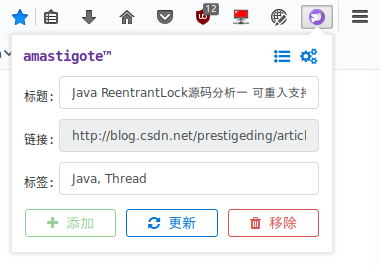
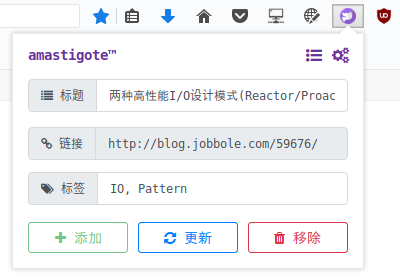
1. bump version to 0.3.5 2. new UI for panel, page and preference 3. fix modal shifting issue 4. improve robustness of ext-core when called in different cases 5. update assets 6. add exception prompt for page

diff --git a/html/page.html b/html/page.html
@@ -17,24 +17,32 @@
         }
 
         .ui-autocomplete {
-            max-height: 100px;
+            max-height: 150px;
             overflow-y: auto;
             /* prevent horizontal scrollbar */
             overflow-x: hidden;
         }
+        .modal-open {
+            padding-right: 0 !important;
+        }
+        html {
+            overflow-y: scroll !important;
+        }
+
     </style>
 </head>
-<body style="width: 100%; margin: auto; min-height: 100%; padding-bottom: 20px">
+<body style="margin: auto; min-height: 100%; padding-bottom: 20px">
 <nav class="navbar navbar-expand-lg navbar-dark fixed-top" style="background-color: rebeccapurple">
     <span class="navbar-brand text-light" style="font-family: sans-serif; -moz-user-select: none">文章列表 - amastigote™ open version<a
-            class="fa fa-github text-light" style="margin-left: 15px" href="https://github.com/amastigote/amastigote-browser-ext"></a></span>
+            class="fa fa-github text-light" style="margin-left: 15px"
+            href="https://github.com/amastigote/amastigote-browser-ext"></a></span>
     <div class="collapse navbar-collapse" id="navbarSupportedContent">
         <ul class="navbar-nav mr-auto"></ul>
         <form class="form-inline">
             <div class="input-group" style="width: 540px">
                 <span style="background-color: #4e2674; -moz-user-select: none" class="input-group-addon text-light"><i
                         class="fa fa-tags"></i>&nbsp;标签过滤器</span>
-                <input style="background-color: rgb(158,122,201)" type="text" id="filterByTags"
+                <input style="background-color: rgb(158,122,201)" id="filterByTags"
                        class="form-control text-light" title="输入一组标签来过滤显示结果">
                 <button id="btnFilter" style="margin-left: 15px" type="button"
                         class="btn btn-outline-light"><i class="fa fa-check"></i>&nbsp;&nbsp;应用
@@ -80,23 +88,21 @@
                     </button>
                 </div>
                 <div class="modal-body">
-                    <form>
-                        <div class="form-group" id="standard">
-                            <label for="modalInputTitle" style="font-size: 16px; font-weight: 600"><i
-                                    class="fa fa-bars"></i>&nbsp;&nbsp;标题</label>
-                            <input style="font-size: 14px" id="modalInputTitle" class="form-control"/>
+                    <form class="form-inline">
+                        <div class="input-group" style="width: 100%;">
+                            <span style="-moz-user-select: none; font-size: 14px" class="input-group-addon"><i
+                                    class="fa fa-list"></i>&nbsp;&nbsp;标题</span>
+                            <input style="font-size: 14px" id="modalInputTitle" class="form-control" title="标题"/>
                         </div>
-                        <div class="form-group">
-                            <label for="modalInputUrl" style="font-size: 16px; font-weight: 600"><i
-                                    class="fa fa-link"></i>&nbsp;&nbsp;链接</label>
-                            <input disabled style="font-size: 14px" id="modalInputUrl" class="form-control"/>
+                        <div class="input-group" style="width: 100%; margin-top: 15px">
+                            <span style="-moz-user-select: none; font-size: 14px" class="input-group-addon"><i
+                                    class="fa fa-link"></i>&nbsp;&nbsp;链接</span>
+                            <input disabled style="font-size: 14px" id="modalInputUrl" class="form-control" title="链接"/>
                         </div>
-                        <div class="form-group">
-                            <div style="display: block">
-                                <label for="modalInputTags" style="font-size: 16px; font-weight: 600"><i
-                                        class="fa fa-tags"></i>&nbsp;&nbsp;标签</label></div>
-                            <input style="font-size: 14px; display: table; width: 100%" id="modalInputTags"
-                                   class="form-control" placeholder="No Tags"/>
+                        <div class="input-group" style="width: 100%; margin-top: 15px">
+                            <span style="-moz-user-select: none; font-size: 14px" class="input-group-addon"><i
+                                    class="fa fa-tags"></i>&nbsp;&nbsp;标签</span>
+                            <input style="font-size: 14px" id="modalInputTags" class="form-control" placeholder="无标签"/>
                         </div>
                     </form>
                 </div>

diff --git a/html/popup.html b/html/popup.html
@@ -46,7 +46,7 @@
 </head>
 
 <body>
-<div id="mask" class="mask" style="text-align: center; display: table">
+<div id="mask" class="mask" style="text-align: center; display: table; z-index: 1000">
     <div style="display: table-cell; height: 100%">
         <table style="vertical-align: middle; width: 100%; height: 100%">
             <tr style="text-align: center">
@@ -64,36 +64,32 @@
         </table>
     </div>
 </div>
-<table style="width: 320px">
-    <tr style="height: 30px">
-        <td colspan="2"
-            style="font-size: 14px; position: absolute; top: 9px; left: 10px;color: rebeccapurple; font-weight: bold">
-            amastigote™
-        </td>
-    </tr>
-    <tr class="spacer"></tr>
-    <tr>
-        <td style="font-size: 12px; padding-left: 12px">标题:</td>
-        <td><label><input class="form-control" style="font-size: 12px; width: 260px" id="input_title"/></label></td>
-        <td style="top: 8px; right: 10px; position: absolute">
-            <a href="javascript: void(0);">
-                <i class="fa fa-list-ul" id="img_page"></i></a>
-            <a href="javascript: void(0);">
-                <i class="fa fa-cogs" id="img_settings" style="margin-right: 4px"></i></a>
-        </td>
-    </tr>
-    <tr>
-        <td style="font-size: 12px; padding-left: 12px">链接:</td>
-        <td><label><input class="form-control non-selection-input" style="font-size: 12px; width: 260px" disabled
-                          id="input_url"/></label>
-        </td>
-    </tr>
-    <tr>
-        <td style="font-size: 12px; padding-left: 12px">标签:</td>
-        <td><label><input placeholder="No Tags" class="form-control" style="font-size: 12px; width: 260px"
-                          id="input_tag"/></label></td>
-    </tr>
-</table>
+<div style="font-size: 14px; position: absolute; top: 10px; left: 15px;color: rebeccapurple; font-weight: bold">
+    amastigote™
+</div>
+<div style="top: 9px; right: 10px; position: absolute">
+    <a href="javascript: void(0);">
+        <i class="fa fa-list-ul" id="img_page"></i></a>
+    <a href="javascript: void(0);">
+        <i class="fa fa-cogs" id="img_settings" style="margin-right: 4px"></i></a></div>
+<form class="form-inline"
+      style="width: 320px; margin: 45px 15px 17px;">
+    <div class="input-group" style="width: 100%;">
+                            <span style="-moz-user-select: none; font-size: 12px" class="input-group-addon"><i
+                                    class="fa fa-list"></i>&nbsp;标题</span>
+        <input style="font-size: 12px" id="input_title" class="form-control" title="标题"/>
+    </div>
+    <div class="input-group" style="width: 100%; margin-top: 15px">
+                            <span style="-moz-user-select: none; font-size: 12px" class="input-group-addon"><i
+                                    class="fa fa-link"></i>&nbsp;链接</span>
+        <input disabled style="font-size: 12px" id="input_url" class="form-control" title="链接"/>
+    </div>
+    <div class="input-group" style="width: 100%; margin-top: 12px">
+                            <span style="-moz-user-select: none; font-size: 12px" class="input-group-addon"><i
+                                    class="fa fa-tags"></i>&nbsp;标签</span>
+        <input style="font-size: 12px" id="input_tag" class="form-control" placeholder="无标签"/>
+    </div>
+</form>
 <div style="margin-top:5px; width: 100%; text-align: center; margin-bottom: 15px">
     <button style="width: 28.5%" id="btn_add" type="button" class="btn btn-outline-success btn-sm">
         <i class="fa fa-plus"></i>&nbsp;添加

diff --git a/js/ext-core.js b/js/ext-core.js
@@ -1,6 +1,10 @@
 // Generated by CoffeeScript 1.12.7
 (function() {
-  var general_query;
+  var __portKey, __serverKey, dispatchQuery, generalQuery;
+
+  __serverKey = 'cnServer';
+
+  __portKey = 'cnPort';
 
   this.Status = {
     COMPLETE: 0x0,
@@ -8,43 +12,51 @@
     EXCEPTION: 0x2
   };
 
-  this.create = function(item, success_callback) {
-    return general_query(JSON.stringify(item), 'item', 'POST', success_callback);
+  this.create = function(payload, success_callback) {
+    return dispatchQuery(JSON.stringify(payload), 'item', 'POST', success_callback);
   };
 
-  this.update = function(item, success_callback) {
-    return general_query(JSON.stringify(item), 'item', 'PUT', success_callback);
+  this.update = function(payload, success_callback) {
+    return dispatchQuery(JSON.stringify(payload), 'item', 'PUT', success_callback);
   };
 
-  this.remove = function(item, success_callback) {
-    return general_query(JSON.stringify(item), 'item', 'DELETE', success_callback);
+  this.remove = function(payload, success_callback) {
+    return dispatchQuery(JSON.stringify(payload), 'item', 'DELETE', success_callback);
   };
 
-  this.get_item = function(item, success_callback) {
-    return general_query(item, 'item', 'GET', success_callback);
+  this.get_item = function(payload, success_callback) {
+    return dispatchQuery(payload, 'item', 'GET', success_callback);
   };
 
   this.get_tags = function(tag_serial, success_callback) {
-    return general_query(tag_serial, 'tag', 'GET', success_callback);
+    return dispatchQuery(tag_serial, 'tag', 'GET', success_callback);
   };
 
-  general_query = function(item, urlEndPoint, query_method, success_callback) {
-    return browser.storage.local.get(['cnServer', 'cnPort']).then(function(result) {
-      var port, server;
-      if (result['cnServer'] !== void 0 && result['cnPort'] !== void 0) {
-        server = result['cnServer'];
-        port = result['cnPort'];
-        return $.ajax({
-          type: query_method,
-          url: 'http://' + server + ':' + port + '/' + urlEndPoint,
-          data: item,
-          contentType: 'application/json',
-          dataType: 'json',
-          crossDomain: true,
-          crossOrigin: true,
-          success: success_callback
-        });
-      }
+  dispatchQuery = function(payload, urlEndPoint, query_method, success_callback) {
+    if (this.server && this.port) {
+      return generalQuery(payload, urlEndPoint, query_method, success_callback, server, port);
+    } else if (browser) {
+      return browser.storage.local.get([__serverKey, __portKey]).then(function(result) {
+        var port, server;
+        if (result[__serverKey] !== void 0 && result[__portKey] !== void 0) {
+          server = result[__serverKey];
+          port = result[__portKey];
+          return generalQuery(payload, urlEndPoint, query_method, success_callback, server, port);
+        }
+      });
+    }
+  };
+
+  generalQuery = function(payload, urlEndPoint, query_method, success_callback, server, port) {
+    return $.ajax({
+      type: query_method,
+      url: "http://" + server + ":" + port + "/" + urlEndPoint,
+      data: payload,
+      contentType: 'application/json',
+      dataType: 'json',
+      crossDomain: true,
+      crossOrigin: true,
+      success: success_callback
     });
   };
 

diff --git a/html/preference.html b/html/preference.html
@@ -14,26 +14,26 @@
 <!-- Firefox Add-ons Manager's background color has an offset of -0x10101.
      Should be 0xFAFAFA in present. -->
 <body style="background-color: rgba(251,251,251,0); margin-left: 3px; margin-bottom: 3px; width: 270px;">
-<form>
-    <div class="form-group" style="width: 100%">
-        <label style="font-size: 14px; width: 100%">服务器地址
-            <input class="form-control" placeholder="example.com" id="input_server"
-                   style="font-size: 14px; margin-top: 2px; width: 100%"/></label>
+<form class="form-inline">
+    <div class="input-group" style="width: 100%">
+                            <span style="-moz-user-select: none; font-size: 14px" class="input-group-addon"><i
+                                    class="fa fa-home"></i>&nbsp;&nbsp;地址</span>
+        <input style="font-size: 14px" id="input_server" class="form-control" title="地址"/>
     </div>
-    <div class="form-group" style="margin-top: -14px; width: 100%">
-        <label style="font-size: 14px; margin-top: 10px; width: 100%">服务器端口
-            <input class="form-control" placeholder="8080" id="input_port"
-                   style="font-size: 14px; margin-top: 2px; width: 100%" type="number" min="0" max="65535"/></label>
+    <div class="input-group" style="width: 100%; margin-top: 15px; margin-bottom: 15px">
+                            <span style="-moz-user-select: none; font-size: 14px" class="input-group-addon"><i
+                                    class="fa fa-plug"></i>&nbsp;&nbsp;端口</span>
+        <input style="font-size: 14px" id="input_port" class="form-control" title="端口"/>
     </div>
 </form>
 <div style="width: 100%">
-    <button class="btn btn-outline-primary btn-sm" id="buttonSave"><i
+    <button style="width: 30%;" class="btn btn-outline-primary btn-sm" id="buttonSave"><i
             class="fa fa-floppy-o"></i>&nbsp;&nbsp;保存&nbsp;
     </button>
-    <button class="btn btn-outline-danger btn-sm" id="buttonClear"><i
+    <button style="width: 30%;" class="btn btn-outline-danger btn-sm" id="buttonClear"><i
             class="fa fa-times"></i>&nbsp;&nbsp;清除&nbsp;
     </button>
-    <button class="btn btn-outline-success btn-sm" id="buttonGithub"><i
+    <button style="width: 30%;" class="btn btn-outline-success btn-sm" id="buttonGithub"><i
             class="fa fa-github-alt"></i>&nbsp;&nbsp;源码&nbsp;
     </button>
 </div>

diff --git a/js/ext-preference.js b/js/ext-preference.js
@@ -1,6 +1,6 @@
 // Generated by CoffeeScript 1.12.7
 (function() {
-  var clear_button, github_button, port_input, save_button, server_input;
+  var __portKey, __serverKey, clear_button, github_button, port_input, save_button, server_input;
 
   server_input = $('#input_server');
 
@@ -12,12 +12,16 @@
 
   github_button = $('#buttonGithub');
 
-  browser.storage.local.get(['cnServer', 'cnPort']).then(function(result) {
-    if (result['cnServer'] && result['cnServer'] !== '') {
-      server_input.val(result['cnServer']);
+  __serverKey = 'cnServer';
+
+  __portKey = 'cnPort';
+
+  browser.storage.local.get([__serverKey, __portKey]).then(function(result) {
+    if (result[__serverKey] && result[__serverKey] !== '') {
+      server_input.val(result[__serverKey]);
     }
-    if (result['cnPort'] && result['cnPort'] !== '') {
-      return port_input.val(result['cnPort']);
+    if (result[__portKey] && result[__portKey] !== '') {
+      return port_input.val(result[__portKey]);
     }
   });
 

diff --git a/js/page.js b/js/page.js
@@ -14,14 +14,21 @@
     $('#errMessage').text(errorMessage);
     $('#errLocation').text(scriptURI + ":" + lineNumber + ":" + columnNumber);
     $('#errObject').text(JSON.stringify(error));
+    $('#errorModalBtnSendReport').click(function() {
+      return window.open('https://github.com/amastigote/amastigote-browser-ext/issues');
+    });
     return $('#errorModal').modal({
       show: true
     });
   };
 
-  this.server = urlObject.searchParams.get('server');
+  this.server = unescape(urlObject.searchParams.get('server'));
 
-  this.port = urlObject.searchParams.get('port');
+  this.port = unescape(urlObject.searchParams.get('port'));
+
+  if (!this.server && !this.port) {
+    throw "server or port is not defined in url";
+  }
 
   loadItems = function(payload, container, btnPre, btnSuc, btnFilter, pageIndicator, inputTags) {
     pageIndicator.closest('div').css('visibility', 'hidden');

diff --git a/js/ext-panel.js b/js/ext-panel.js
@@ -65,7 +65,7 @@
   browse_btn.click(function() {
     return browser.storage.local.get(['cnServer', 'cnPort']).then(function(result) {
       browser.tabs.create({
-        'url': '/html/page.html?server=' + result['cnServer'] + '&port=' + result['cnPort']
+        'url': '/html/page.html?server=' + escape(result['cnServer']) + '&port=' + escape(result['cnPort'])
       });
       return window.close();
     });
